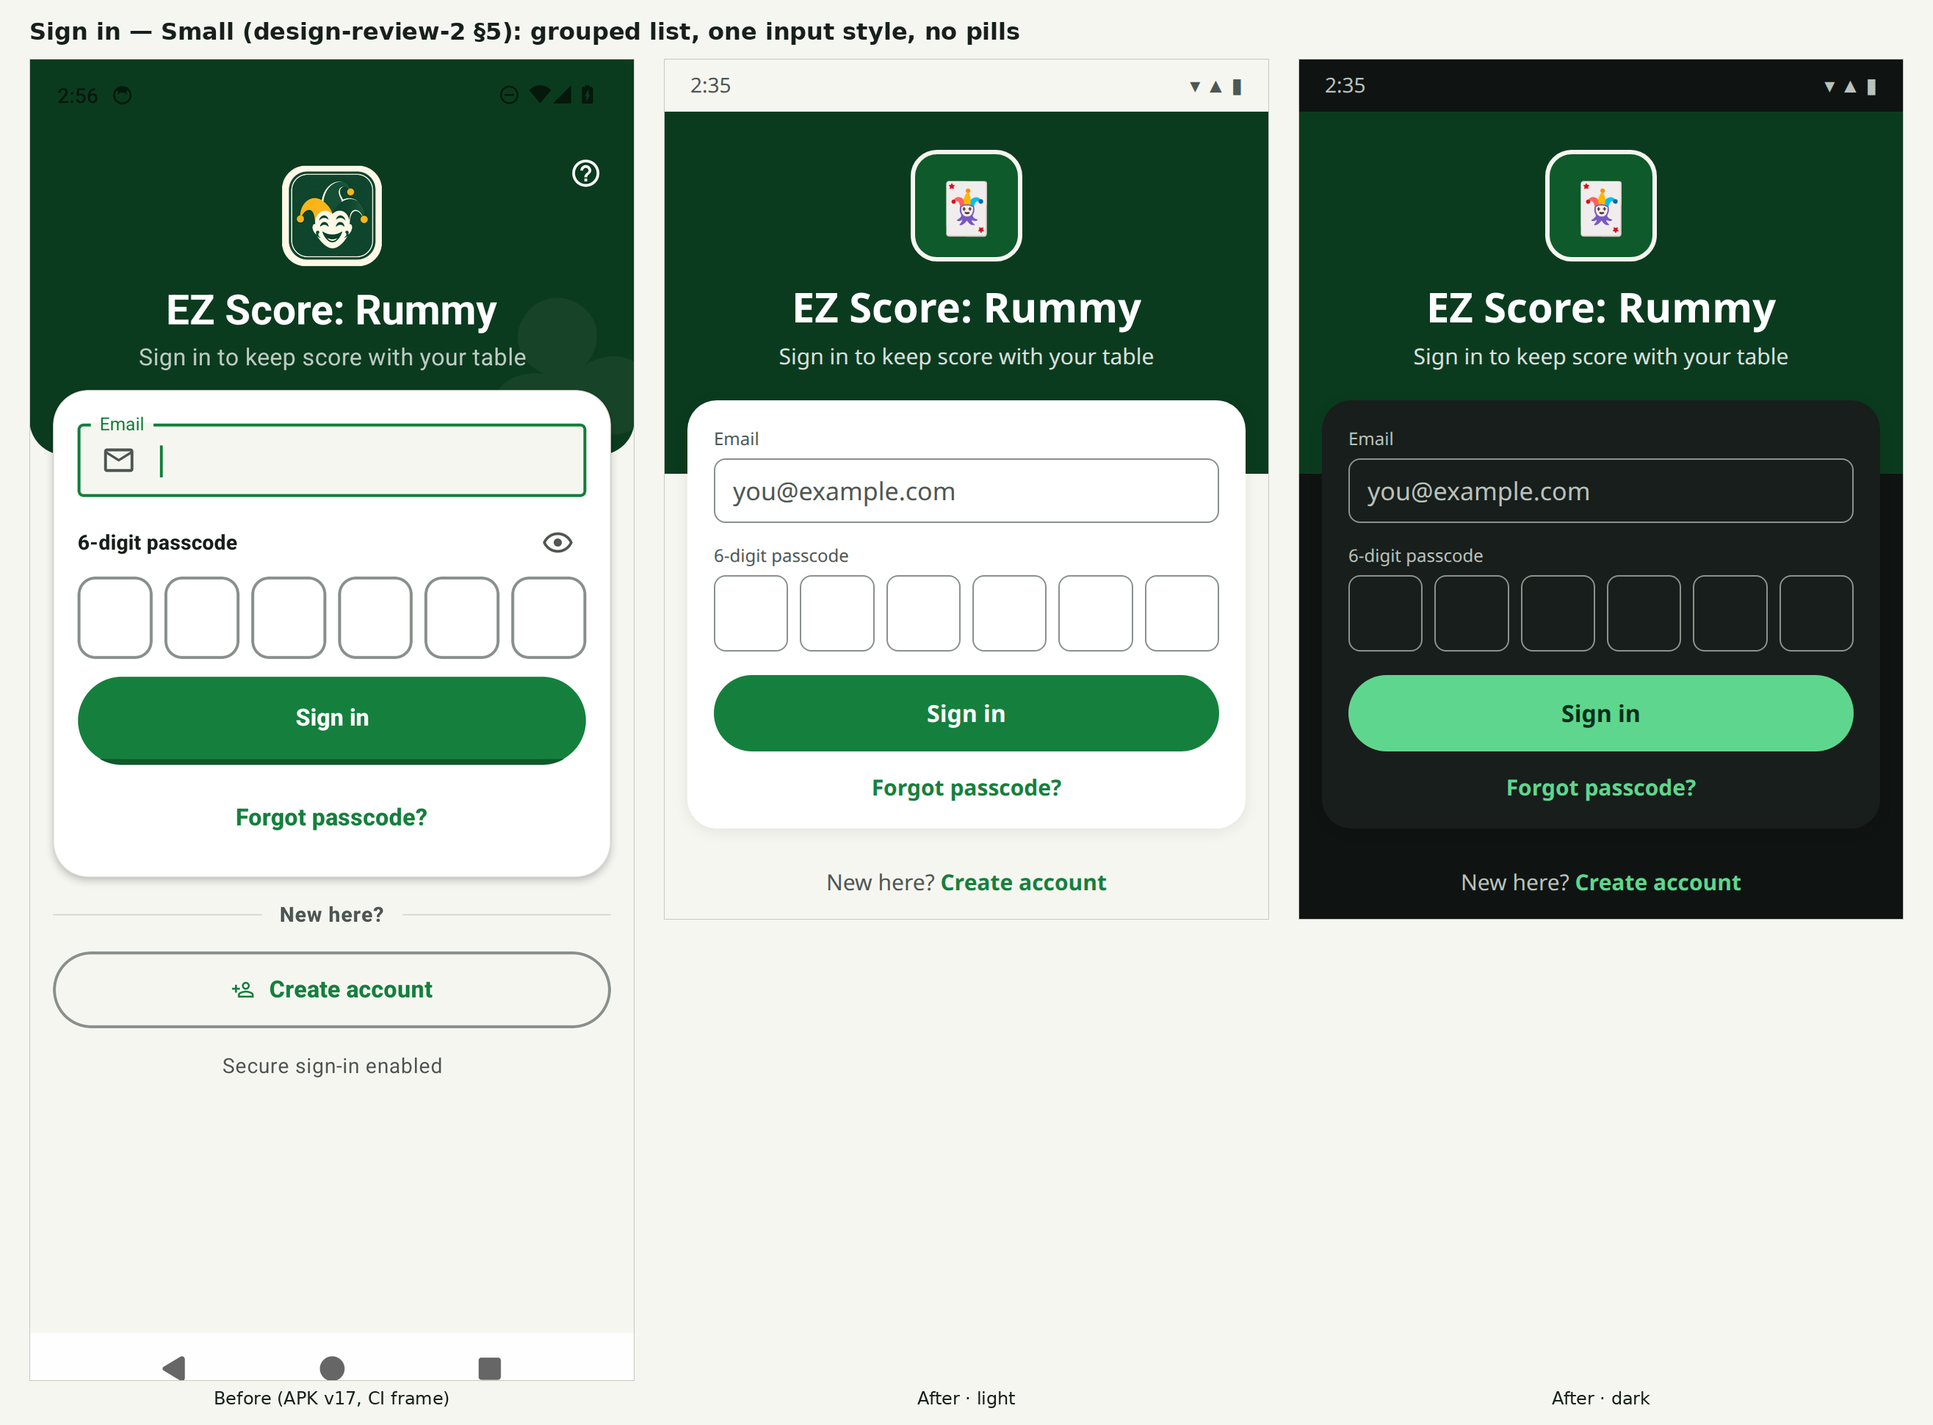
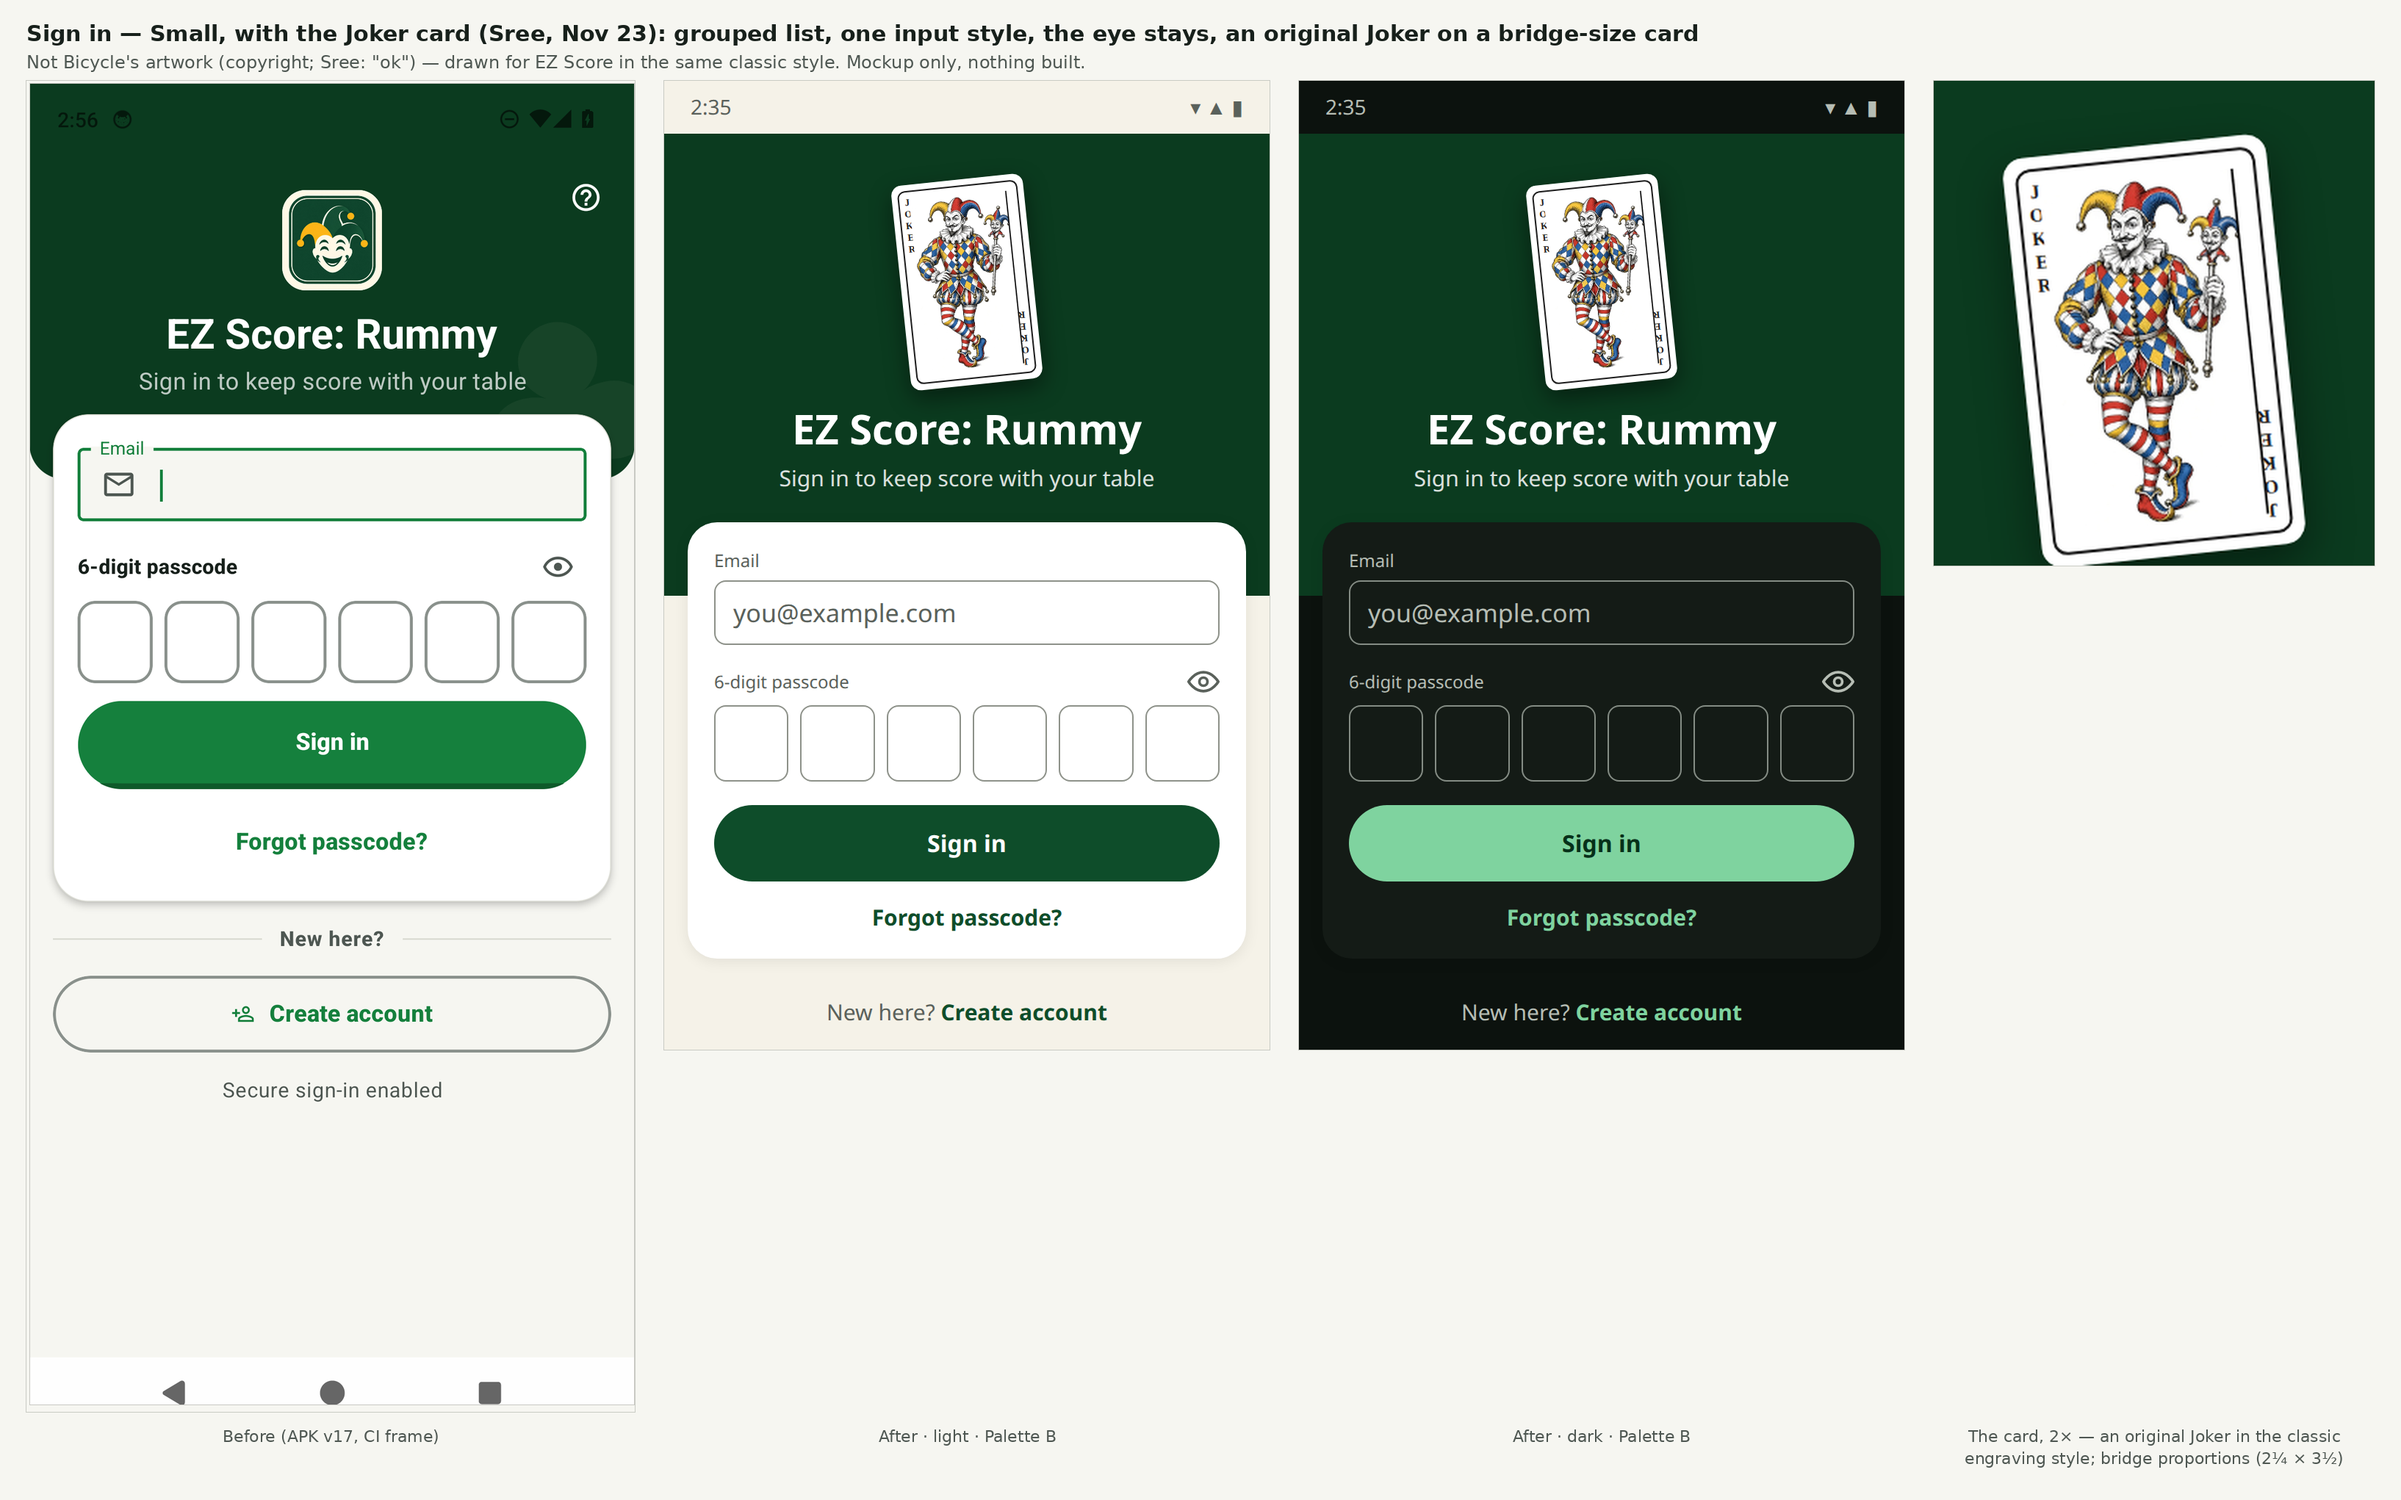
docs(design-review-2): Sign in S re-mocked with an original Joker card (bridge size, classic style) and the passcode eye kept — Sree Nov 23 (D69); §10.4 build spec; not built

diff --git a/rummy-home3/docs/design-review-2/mockups/make-small-mockups.py b/rummy-home3/docs/design-review-2/mockups/make-small-mockups.py
@@ -4,6 +4,7 @@ Renders HTML with the app's theme tokens through headless Chrome at Pixel 6 widt
 import os, subprocess, tempfile, shutil
 from PIL import Image
 
+HERE = os.path.dirname(os.path.abspath(__file__))
 OUT = '/tmp/mock/out'
 os.makedirs(OUT, exist_ok=True)
 CHROME = '/usr/local/bin/google-chrome'
@@ -68,7 +69,17 @@ html,body{width:412px;background:var(--bg);color:var(--onbg);font-family:Roboto,
 .btn.fill{background:var(--primary);color:var(--onprimary);flex:1.6}
 .btn.out{border:1px solid var(--outline);color:var(--primary);flex:1}
 .felt{background:var(--felt);color:#fff;text-align:center;padding:26px 16px 70px}
+.felt .cardwrap{height:150px;display:flex;align-items:center;justify-content:center;margin-bottom:6px}
+.felt .pcard{position:relative;width:90px;height:140px;background:#FFFFFF;border-radius:7px;box-shadow:0 6px 16px rgba(0,0,0,.45),0 1px 0 rgba(255,255,255,.25) inset;transform:rotate(-6deg)}
+.felt .pcard:after{content:"";position:absolute;inset:4px;border:1px solid #1E1E1E;border-radius:5px}
+.felt .pcard img{position:absolute;left:50%;top:50%;height:118px;transform:translate(-50%,-50%)}
+.felt .pcard .ix{position:absolute;font:700 6.5px/1 Georgia,"Times New Roman",serif;color:#1E1E1E;letter-spacing:.5px;writing-mode:vertical-rl;text-orientation:upright}
+.felt .pcard .ix.tl{left:7px;top:8px}
+.felt .pcard .ix.br{right:7px;bottom:8px;transform:rotate(180deg)}
 .felt .logo{width:76px;height:76px;border-radius:18px;border:3px solid #F6F6F1;margin:0 auto 12px;background:#0E5A2A;display:flex;align-items:center;justify-content:center;font-size:34px}
+.lbl{display:flex;align-items:center;justify-content:space-between;margin-bottom:5px}
+.lbl label{margin:0}
+.eye{width:22px;height:22px;color:var(--muted)}
 .felt h1{font-size:28px;font-weight:700}
 .felt p{font-size:15px;opacity:.85;margin-top:4px}
 .card{background:var(--surface);border-radius:20px;margin:-50px 16px 0;padding:18px 18px 8px;box-shadow:0 2px 10px rgba(0,0,0,.08)}
@@ -159,10 +170,15 @@ def gametype():
 
 def signin():
     body = status()
-    body += '<div class="felt"><div class="logo">🃏</div><h1>EZ Score: Rummy</h1><p>Sign in to keep score with your table</p></div>'
+    # Sree, Nov 23: "just get the Joker card" — an original jester in the classic Bicycle engraving style (not the
+    # company's artwork, "ok" to that), on a bridge-size card (2¼ × 3½ — "the regular ones that are smaller in looking size").
+    card = f'<div class="cardwrap"><div class="pcard"><span class="ix tl">JOKER</span><img src="file://{HERE}/joker-figure.png"><span class="ix br">JOKER</span></div></div>'
+    body += f'<div class="felt">{card}<h1>EZ Score: Rummy</h1><p>Sign in to keep score with your table</p></div>'
     body += '<div class="card">'
     body += '<div class="field"><label>Email</label><div class="box" style="font-variant-numeric:normal;color:var(--muted)">you@example.com</div></div>'
-    body += '<div class="field"><label>6-digit passcode</label><div class="boxes"><div></div><div></div><div></div><div></div><div></div><div></div></div></div>'
+    # Sree, Nov 23: "I have this thing where I'm hiding the password … keep that functionality" — the eye stays.
+    eye = '<svg class="eye" viewBox="0 0 24 24" fill="none" stroke="currentColor" stroke-width="2" stroke-linecap="round" stroke-linejoin="round"><path d="M1 12s4-7 11-7 11 7 11 7-4 7-11 7S1 12 1 12z"/><circle cx="12" cy="12" r="3"/></svg>'
+    body += f'<div class="field"><div class="lbl"><label>6-digit passcode</label>{eye}</div><div class="boxes"><div></div><div></div><div></div><div></div><div></div><div></div></div></div>'
     body += '<div class="btn fill">Sign in</div>'
     body += '<div class="link">Forgot passcode?</div>'
     body += '</div>'

diff --git a/rummy-home3/docs/design-review-2/mockups/make-sign-in-joker-mockup.py b/rummy-home3/docs/design-review-2/mockups/make-sign-in-joker-mockup.py
@@ -1,0 +1,49 @@
+#!/usr/bin/env python3
+"""Sign in S with the Joker card (Sree, Nov 23: "the redesign is good, but can you pick a better image? … just get the
+Joker card … the regular ones that are smaller in looking size" + "keep [the password hiding] functionality").
+Reuses make-small-mockups.py's sign-in screen, rendered in Palette B (D65), light + dark; the Before column is the
+APK v17 CI frame kept from the first sheet. Writes small-sign-in.png and sign-in-joker-card.png."""
+import os
+from PIL import Image, ImageDraw, ImageFont
+
+HERE = os.path.dirname(os.path.abspath(__file__))
+src = open(os.path.join(HERE, 'make-small-mockups.py')).read()
+src = src[:src.index('for name in SCREENS:')].replace("OUT = '/tmp/mock/out'", "OUT = '/tmp/mock/joker'")
+ns = {'__file__': os.path.join(HERE, 'make-small-mockups.py')}
+exec(compile(src, 'build.py', 'exec'), ns)
+pal = open(os.path.join(HERE, 'make-palette-mockups.py')).read()
+pns = {}
+exec(compile(pal[pal.index('B_LIGHT = '):pal.index('C_LIGHT = ')], 'palette.py', 'exec'), pns)
+
+F = '/usr/share/fonts/truetype/dejavu/DejaVuSans.ttf'
+FB = '/usr/share/fonts/truetype/dejavu/DejaVuSans-Bold.ttf'
+def font(sz, bold=False):
+    return ImageFont.truetype(FB if bold else F, sz)
+
+before = Image.open(os.path.join(HERE, 'small-sign-in-before.png')).convert('RGB')
+light = Image.open(ns['render']('sign-in', 'light', pns['B_LIGHT'])).convert('RGB')
+dark = Image.open(ns['render']('sign-in', 'dark', pns['B_DARK'])).convert('RGB')
+
+# the card alone, big, so the drawing can be judged
+card = light.crop((light.width // 2 - 150, 90, light.width // 2 + 150, 420))
+card = card.resize((card.width * 2, card.height * 2), Image.LANCZOS)
+
+PAD, GAP, TOP = 36, 40, 110
+H = max(before.height, light.height, dark.height)
+panels = [(before, 'Before (APK v17, CI frame)'), (light, 'After · light · Palette B'), (dark, 'After · dark · Palette B'),
+          (card, 'The card, 2× — an original Joker in the classic\nengraving style; bridge proportions (2¼ × 3½)')]
+W = PAD * 2 + sum(p.width for p, _ in panels) + GAP * (len(panels) - 1)
+sheet = Image.new('RGB', (W, TOP + H + 120), '#F6F6F1')
+d = ImageDraw.Draw(sheet)
+d.text((PAD, 28), 'Sign in — Small, with the Joker card (Sree, Nov 23): grouped list, one input style, the eye stays, an original Joker on a bridge-size card', fill='#17201B', font=font(30, True))
+d.text((PAD, 70), 'Not Bicycle\'s artwork (copyright; Sree: "ok") — drawn for EZ Score in the same classic style. Mockup only, nothing built.', fill='#4E5752', font=font(24))
+x = PAD
+for im, cap in panels:
+    sheet.paste(im, (x, TOP))
+    d.rectangle((x - 1, TOP - 1, x + im.width, TOP + im.height), outline='#C9CBC4')
+    for i, line in enumerate(cap.split('\n')):
+        d.text((x + im.width // 2 - d.textlength(line, font=font(22)) // 2, TOP + H + 20 + i * 30), line, fill='#4E5752', font=font(22))
+    x += im.width + GAP
+sheet.save(os.path.join(HERE, 'small-sign-in.png'), optimize=True)
+card.save(os.path.join(HERE, 'sign-in-joker-card.png'), optimize=True)
+print(sheet.size)

diff --git a/rummy-home3/docs/design-review-2/mockups/make-palette-mockups.py b/rummy-home3/docs/design-review-2/mockups/make-palette-mockups.py
@@ -8,7 +8,7 @@ HERE = os.path.dirname(os.path.abspath(__file__))
 src = open(os.path.join(HERE, 'make-small-mockups.py')).read()
 src = src[:src.index('for name in SCREENS:')]
 src = src.replace("OUT = '/tmp/mock/out'", "OUT = '/tmp/mock/palette'")
-ns = {}
+ns = {'__file__': os.path.join(HERE, 'make-small-mockups.py')}
 exec(compile(src, 'build.py', 'exec'), ns)
 render = ns['render']
 A_LIGHT, A_DARK = ns['LIGHT'], ns['DARK']

diff --git a/rummy-home3/docs/design-review-2.md b/rummy-home3/docs/design-review-2.md
@@ -24,8 +24,10 @@ numbers below). Every frame is from the Pixel 6 smoke run of `main` @ `f98f4ac2`
 > color changes?" The four S screens are above (§5, `small-*.png`); the colour question is answered in **§9** with
 > three palettes on the same four screens, light and dark (`palette-*.png`), recommendation **B · Felt & Brass**.
 > **Nov 23** — Sree: "Palette B" (**D65**); then "Yes to the Profile redesign" (**D66**). Still no code: he is
-> then "Yes to the Settings redesign" (**D67**), then "Yes to the Game type redesign" (**D68**). Still no code:
-> Sign in is under review. §10 is the build spec per approved screen, ready for the first S PR on his "build".
+> then "Yes to the Settings redesign" (**D67**), "Yes to the Game type redesign" (**D68**), and for Sign in "the redesign
+> is good, but can you pick a better image? … just get the Joker card" + keep the passcode eye (**D69**, re-mocked in
+> `small-sign-in.png`). All four S screens are approved; still no code ("Mockups only, no building yet"). §10 is the
+> build spec per screen, ready for the first S PR on his "build".
 
 PR 15 (`design-audit.md`, Nov 17–18) fixed the **token** layer: one button component with two weights, one `Tag`,
 one `SearchField`, one dialog family, one date format, radii from a table, sentence-case headings. That work holds —
@@ -543,3 +545,44 @@ rules and copy, the defaults priority (D-rules), the help anchors (`new-game` to
 steps 16b–16d keep their ids and the "Game type" text assertion; the 16c2 re-entries tip step now taps the Pool
 settings ⓘ. Screenshot matrix: Game type Points / Pool × light / dark, Pool with Limited re-entries open, the
 refused-limit strip, large font.
+
+### 10.4 Sign in (Sree: "the redesign is good, but can you pick a better image? …"; D69)
+
+Sree, Nov 23, verbatim: *"Yeah, the redesign is good, but can you pick a better image? Can you actually pick the exact
+Joker card from the Bicycle cards, the 52 cards from that company? … Don't get the poker-style cards. Get the regular
+ones that are smaller in looking size. Anyway, just get the Joker card. I know I have this thing where I'm hiding the
+password. … Can you keep that functionality and not remove it?"* Then, told Bicycle's Joker is the card company's
+copyrighted artwork and that an original Joker in the same classic style avoids the risk: *"ok"*.
+
+Read as: (1) the grouped-list Sign in is approved; (2) the hero is a **Joker playing card**, not the app-icon tile;
+(3) **bridge-size** proportions (2¼ × 3½ — Bicycle's "regular" narrower deck, not the 2½ × 3½ poker deck); (4) the
+artwork is **ours**, in the classic turn-of-the-century engraving style — jester with a three-point cap, ruff, diamond
+tunic, marotte, red / yellow / blue flat fills with black line-work — no Bicycle figure, no brand; (5) the **passcode
+eye stays** — the first mockup had dropped it, which is what he caught. Re-mocked in `small-sign-in.png` (before · after
+light · after dark · the card at 2×) by `make-sign-in-joker-mockup.py`; the figure is `mockups/joker-figure.png`.
+
+**Screen** (`app/(auth)/login.tsx` inside `components/ui/AuthShell.tsx`), top to bottom:
+
+| Part | Today | S |
+| --- | --- | --- |
+| Felt panel | 76 dp rounded tile with `icon-small.png`, ⓘ help top-right, a faint club | **The Joker card**: 90 × 140 dp, white, 7 dp radius, 1 dp inner rule 4 dp in, tilted −6°, soft shadow; "JOKER" set upright-vertical in the top-left and bottom-right (rotated 180°) indices; the figure 118 dp tall centred. Title and subtitle unchanged below it. ⓘ stays. Landscape: the card sits in the felt column as the tile does today |
+| Card | Email outlined with a mail icon, `PasscodeField` (six cells + eye), filled Sign in, Forgot passcode? text | Same controls, **one input style**: Email outlined without the leading icon, the six cells, **the eye at the right of the "6-digit passcode" label exactly as today** (`PasscodeField` is untouched), filled Sign in, Forgot passcode? as a text button |
+| Below | "New here?" divider, outlined **Create account pill**, "Secure sign-in enabled" | One line: "New here? **Create account**" (text button, B01). The "Secure sign-in enabled" line goes (B17); the local-prototype warning stays when Supabase is not configured |
+
+**Pieces**: `JokerCard` (new, `components/ui/JokerCard.tsx`): a `View` card with the border and shadow, two rotated
+`Text` indices, one `Image` — the frame is drawn in RN so the edges stay crisp at every density and dark mode needs no
+second asset; the figure is the only bitmap (`assets/joker-figure.png`, ≈ 400 × 720, exported from the mockup source at
+1× / 2× / 3×). `AuthShell` takes `hero?: ReactNode` (default = today's tile) so Register and Forgot passcode get the
+card too without touching their screens. Palette B (D65) tokens throughout.
+
+**What does not change**: `PasscodeField` (digits hidden by default, eye toggles, PR 10b), the validation and error
+copy, `AuthShell`'s keyboard avoidance and landscape split, the help topic (`sign-in`), the `login-*` testIDs.
+
+**Not the Bicycle artwork**: the figure was drawn for EZ Score; nothing from the US Playing Card Company's decks is
+copied. Keep it that way in the build — no "Bicycle" string, no rider, no their Joker.
+
+**Tests / flows**: `design-review-2-s.test.ts` adds: `login.tsx` renders `JokerCard` and still `PasscodeField`;
+`PasscodeField` still has the eye toggle (`eye-outline` / `eye-off-outline`); 0 outlined `Button`s in `login.tsx`;
+"Secure sign-in enabled" is gone. Flow `01-sign-in.yaml` (or whichever flow signs in first) keeps `login-email`,
+`login-passcode`, the eye tap and `login-submit`. Screenshot matrix: Sign in light / dark × portrait / landscape,
+passcode revealed, the Supabase-missing line.
